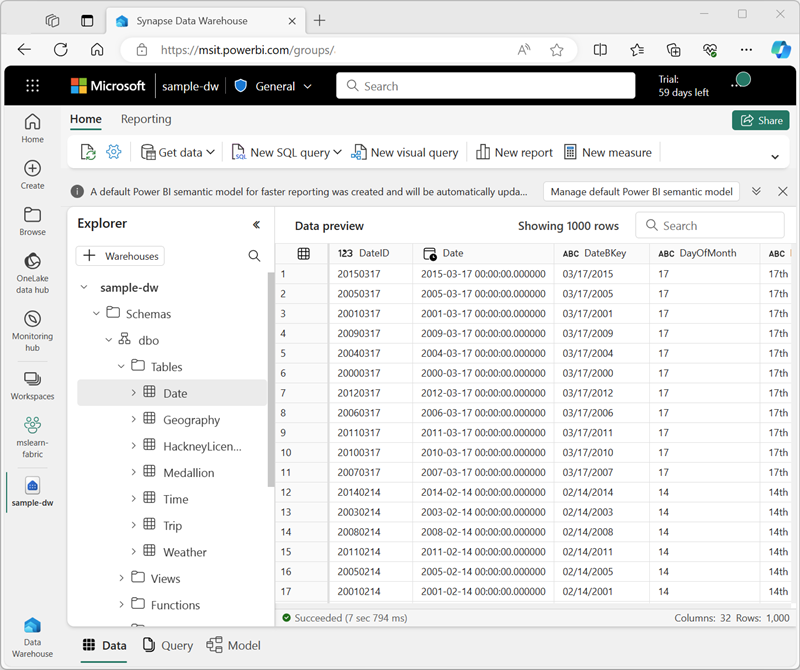
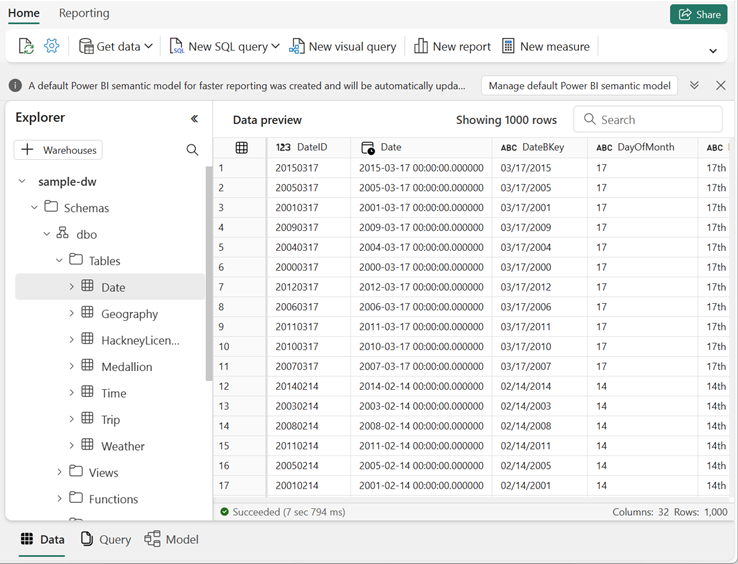
Fabric switcher image updates

Changed region(s): [[0.0, 0.0, 1.0, 1.0], [0.374, 0.0, 0.4051, 0.0301]]

diff --git a/Instructions/Labs/06-data-warehouse.md b/Instructions/Labs/06-data-warehouse.md
@@ -31,7 +31,7 @@ Now that you have a workspace, it's time to create a data warehouse. The Synapse
 
     After a minute or so, a new warehouse will be created:
 
-    ![Screenshot of a new warehouse.](./Images/new-data-warehouse.png)
+    ![Screenshot of a new warehouse.](./Images/new-data-warehouse2.png)
 
 ## Create tables and insert data
 
